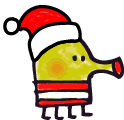
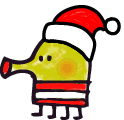
主题切换设置

diff --git a/Noodle Jump/qml/entity/Noodle.qml b/Noodle Jump/qml/entity/Noodle.qml
@@ -15,7 +15,14 @@ EntityBase {
 
     Image {
         id: noodleImage
-        source: "../../assets/snow/noodlesnow.png"
+        source:
+            if(gameWindow.theme === 0){
+                    "../../assets/snow/noodlesnow.png"
+                       }else if(gameWindow.theme === 1){
+                           "../../assets/bunny/bunnyleft_X.png"
+                       }else if(gameWindow.theme === 2){
+                           "../../assets/ninja/ninja-left_X.png"
+                       }
         anchors.fill: parent
     }
 
@@ -53,10 +60,21 @@ EntityBase {
             y = 150
         }
         if(noodleCollider.linearVelocity.y < -100){
-            noodleImage.source = "../../assets/snow/noodlesnow_sit.png"
-        }else {
-            noodleImage.source = "../../assets/snow/noodlesnow.png"
-        }
+            if(gameWindow.theme === 0){
+                    noodleImage.source =  "../../assets/snow/noodlesnow_sit.png"
+                       }else if(gameWindow.theme === 1){
+                           noodleImage.source = "../../assets/bunny/bunnyleftodskok_X.png"
+                       }else if(gameWindow.theme === 2){
+                           noodleImage.source = "../../assets/ninja/ninja-left-odskok_X.png"
+                       }
+
+        }else if(gameWindow.theme === 0){
+            noodleImage.source =  "../../assets/snow/noodlesnow.png"
+               }else if(gameWindow.theme === 1){
+                   noodleImage.source = "../../assets/bunny/bunnyleft_X.png"
+               }else if(gameWindow.theme === 2){
+                   noodleImage.source = "../../assets/ninja/ninja-left_X.png"
+               }
 
         if(y > gameScene.height)
             die()
@@ -72,9 +90,9 @@ EntityBase {
         }
 
         if(controller.xAxis < 0) {
-            noodleImage.mirror = true
-        } else {
             noodleImage.mirror = false
+        } else {
+            noodleImage.mirror = true
         }
     }
 }

diff --git a/Noodle Jump/qml/MenuScene.qml b/Noodle Jump/qml/MenuScene.qml
@@ -18,15 +18,27 @@ Scene {
     id:menuImage
     anchors.fill: menuScene.gameWindowAnchorItem
     fillMode: Image.Stretch
-    source:gameWindow.theme === 0 ?
-        "../assets/snow/snowbck.png" :"../assets/junglebck.png"
+    source:if(gameWindow.theme === 0){
+        "../assets/snow/snowbck.png"
+           }else if(gameWindow.theme === 1){
+               "../assets/bunny/hopbck_X.png"
+           }else if(gameWindow.theme === 2){
+               "../assets/ninja/ghostbck_X.png"
+           }
 
     Image {
         id:bckBottom
+        height: 30
         anchors.left: parent.left
         anchors.right: parent.right
         anchors.bottom: parent.bottom
-        source: "../assets/snow/snowbckbottom.png"
+        source:if(gameWindow.theme === 0){
+                   "../assets/snow/snowbckbottom.png"
+                      }else if(gameWindow.theme === 1){
+                          "../assets/bunny/hopbottom_X.png"
+                      }else if(gameWindow.theme === 2){
+                          "../assets/ninja/ghostland_X.png"
+                      }
     }
   }
 
@@ -38,7 +50,8 @@ Scene {
       anchors.margins: 20
       anchors.left: parent.left
       anchors.leftMargin: 10
-      source: "../assets/doodle-jump.png"
+      source:
+          "../assets/doodle-jump.png"
   }
 
   PhysicsWorld {

diff --git a/Noodle Jump/qml/entity/Floor.qml b/Noodle Jump/qml/entity/Floor.qml
@@ -12,11 +12,17 @@ EntityBase {
 
     SpriteSequenceVPlay {
         id:floorSequenceVplay
-        defaultSource: "../../assets/snow/snowresource.png"
+        defaultSource: if(gameWindow.theme === 0){
+                           "../../assets/snow/snowresource.png"
+                              }else if(gameWindow.theme === 1){
+                                  "../../assets/bunny/gametilesbunny_X.png"
+                              }else if(gameWindow.theme === 2){
+                                  "../../assets/ninja/game-tiles-ninja_X.png"
+                              }
         anchors.fill: parent
         SpriteVPlay {
             frameCount: 1
-            frameWidth: 112
+            frameWidth: 116
             frameHeight: 32
         }
     }

diff --git a/Noodle Jump/qml/entity/BrokeFloor.qml b/Noodle Jump/qml/entity/BrokeFloor.qml
@@ -11,7 +11,14 @@ EntityBase {
 
     SpriteSequenceVPlay {
         id: floorSequenceVplay
-        defaultSource: "../../assets/snow/snowresource.png"
+        defaultSource:
+            if(gameWindow.theme === 0){
+                    "../../assets/snow/snowresource.png"
+                       }else if(gameWindow.theme === 1){
+                           "../../assets/bunny/gametilesbunny_X.png"
+                       }else if(gameWindow.theme === 2){
+                           "../../assets/ninja/game-tiles-ninja_X.png"
+                       }
         anchors.fill: parent
 
         SpriteVPlay {

diff --git a/Noodle Jump/qml/GameScene.qml b/Noodle Jump/qml/GameScene.qml
@@ -16,7 +16,13 @@ Scene {
     Image {
         id: gamebackImage
         anchors.fill: gameScene.gameWindowAnchorItem
-        source: "../assets/snow/snowbck.png"
+        source: if(gameWindow.theme === 0){
+                    "../assets/snow/snowbck.png"
+                       }else if(gameWindow.theme === 1){
+                           "../assets/bunny/hopbck_X.png"
+                       }else if(gameWindow.theme === 2){
+                           "../assets/ninja/ghostbck_X.png"
+                       }
     }
 
     PhysicsWorld {

diff --git a/Noodle Jump/qml/GameoverScene.qml b/Noodle Jump/qml/GameoverScene.qml
@@ -14,7 +14,13 @@ Scene {
     Image {
         id: gamebackImage
         anchors.fill: gameScene.gameWindowAnchorItem
-        source: "../assets/snow/snowbck.png"
+        source: if(gameWindow.theme === 0){
+                    "../assets/snow/snowbck.png"
+                       }else if(gameWindow.theme === 1){
+                           "../assets/bunny/hopbck_X.png"
+                       }else if(gameWindow.theme === 2){
+                           "../assets/ninja/ghostbck_X.png"
+                       }
     }
 
     Text {

diff --git a/Noodle Jump/qml/Main.qml b/Noodle Jump/qml/Main.qml
@@ -34,7 +34,6 @@ GameWindow {
         id: gameScene
         onPause: {
             gameWindow.state = "pause"
-            ga.logEvent("Click", "PauseScene")
         }
     }
     PauseScene {
